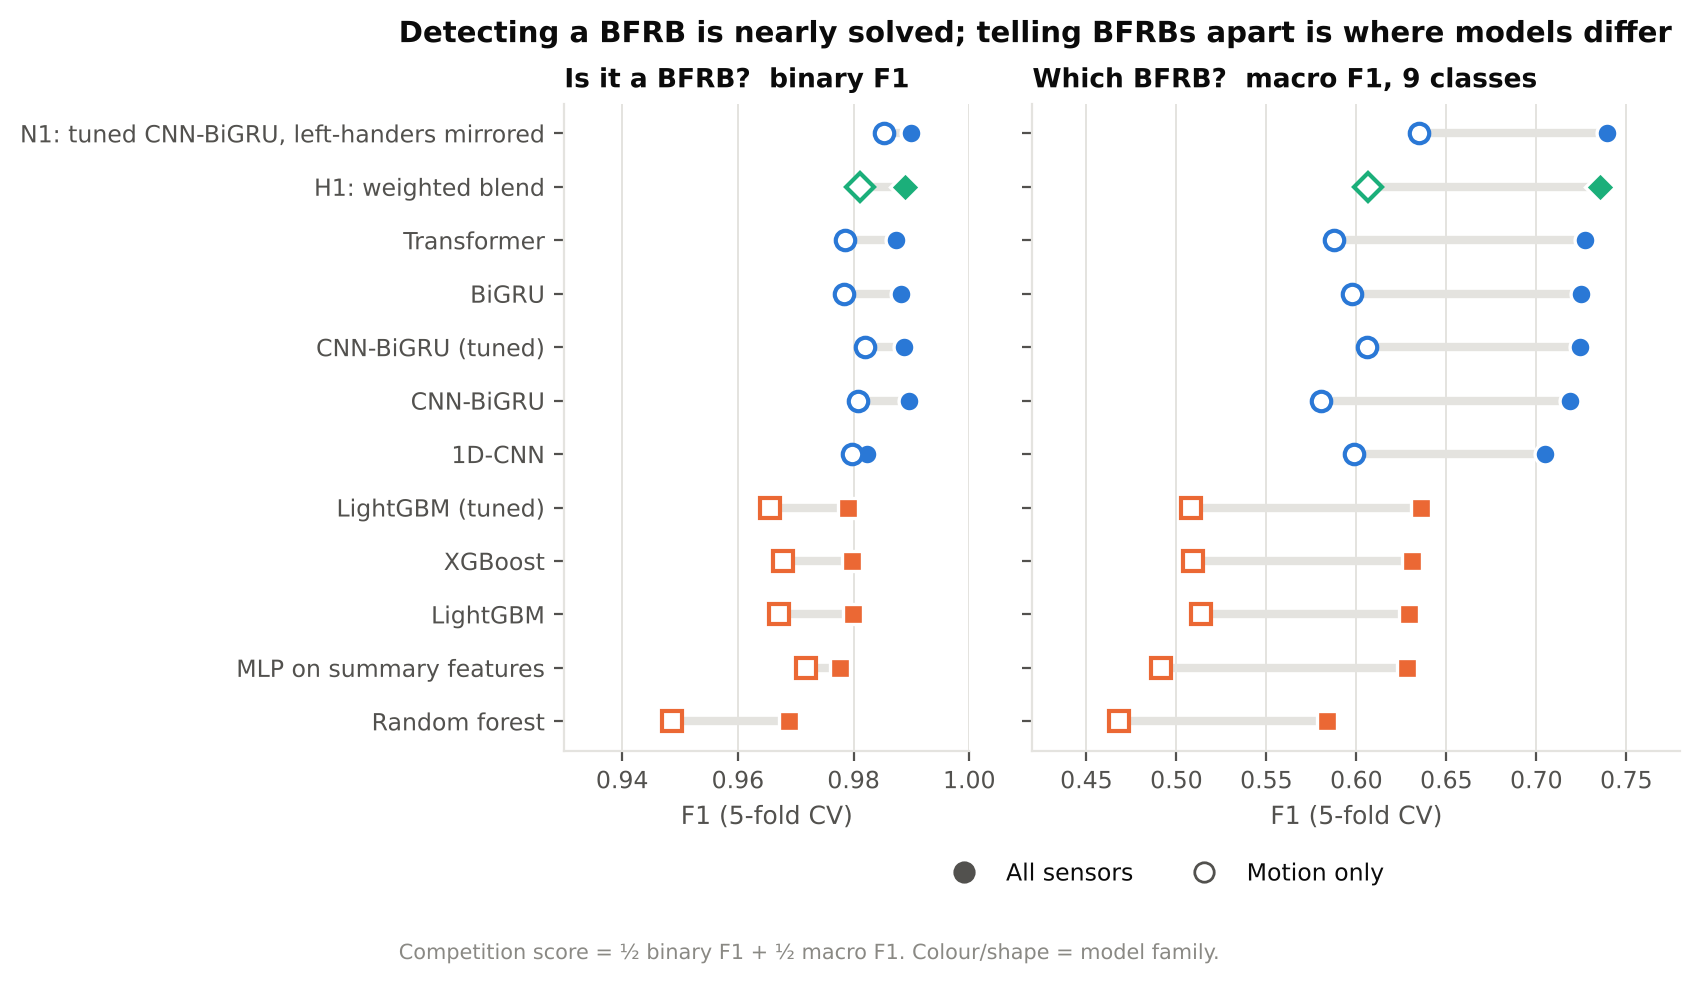
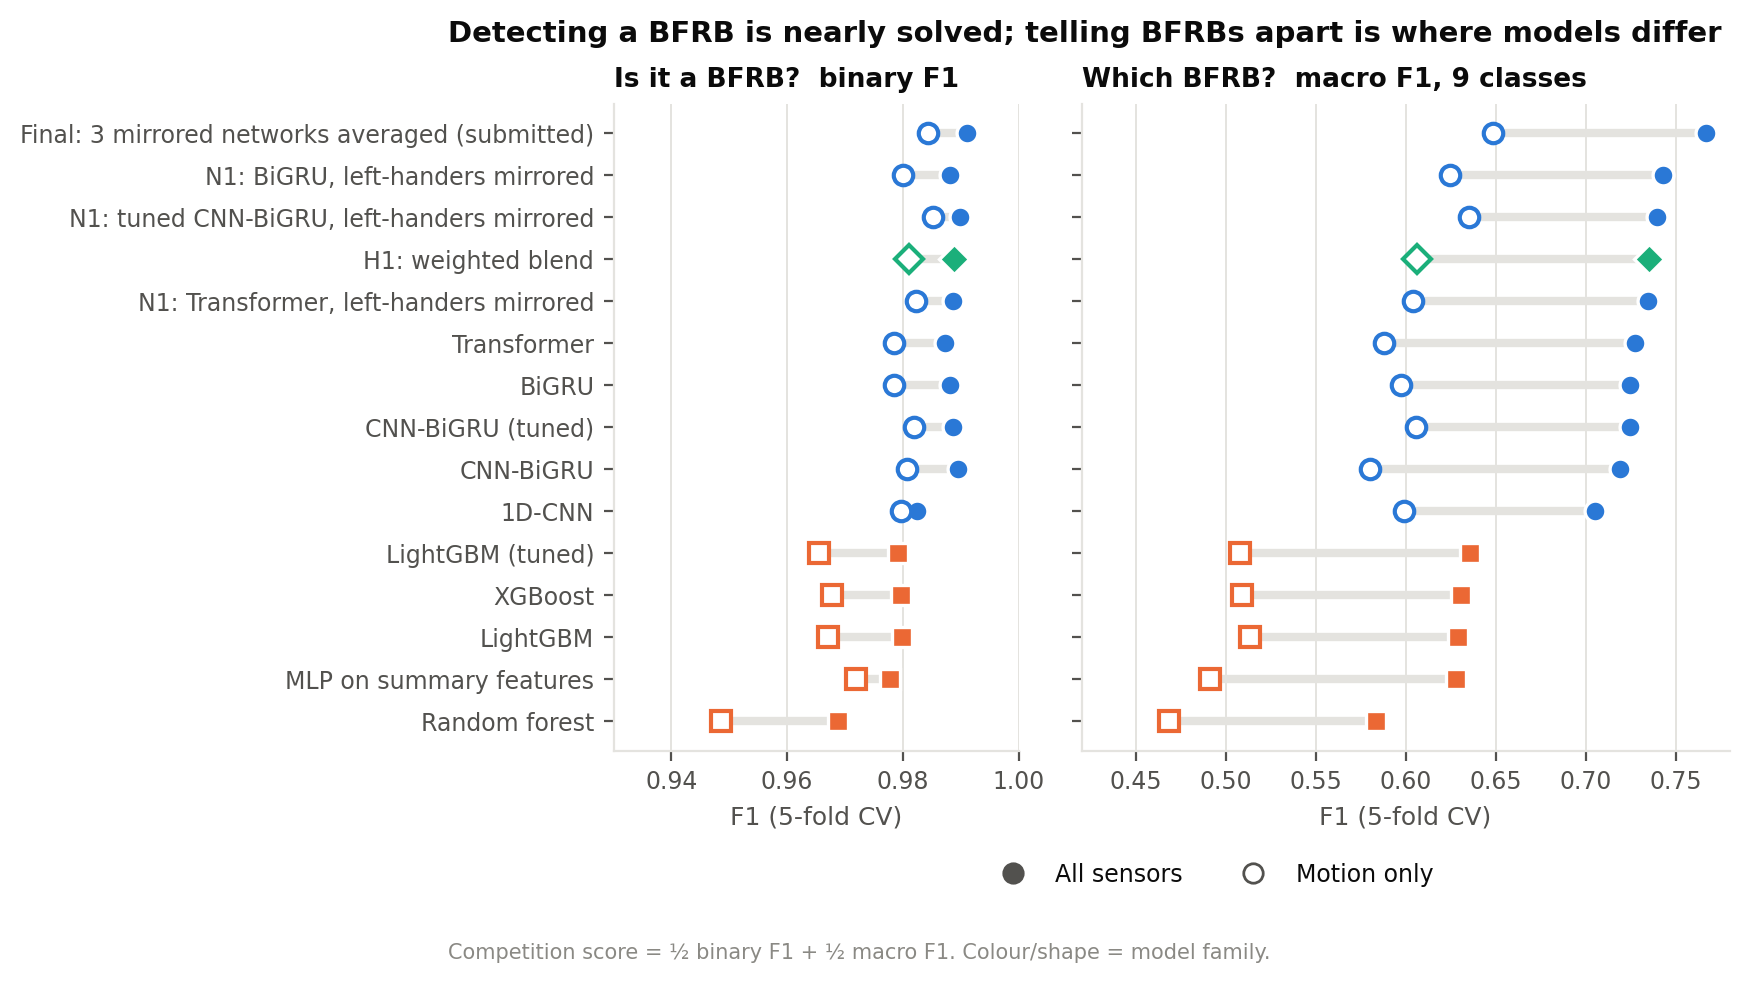
Pass 3 results: final ensemble 0.848 (+ balancing 0.853), N1 on every architecture
- Final = N1 CNN-BiGRU + N1 BiGRU + N1 Transformer averaged: 0.848 [0.834, 0.861], beats N1 (+0.010),
  H1 (+0.020) and the tuned CNN-BiGRU (+0.022), Holm-significant, 5/5 folds
- Per-person balancing: +0.005 (strength 4 chosen on other folds; 20/20 replays, 5/5 folds)
- Mirroring helps every architecture: +0.012 / +0.012 / +0.007, all 5/5 folds
- Verified: final recomputed from raw predictions; earlier runs byte-identical to Pass 2; retrained N1
  reproduces Pass 2 exactly; folds and tuned settings unchanged
- Exploratory ensembles replaced by the final ensemble; figures redrawn; READMEs updated

Claude-Session: https://claude.ai/code/session_01RbzUYDeEXcauXLyg6bzpi6

diff --git a/results/README.md b/results/README.md
@@ -1,7 +1,9 @@
 # Results: CMI – Detect Behavior with Sensor Data
 
 **Final results:** 5-fold cross-validation by person, 3 seeds per model, 8,151 recordings from 81 people.
-**Runs:** Kaggle, 2x Tesla T4, 24 Oct 2026. Pass 1 (seed 0) and Pass 2 (seeds 1-2, ablations, N1, XGBoost).
+**Runs:** Kaggle, 2x Tesla T4. Pass 1 (24 Oct, seed 0), Pass 2 (24 Oct: seeds 1-2, ablations, N1, XGBoost) and
+Pass 3 (27 Oct, 85 min: mirrored BiGRU and Transformer, the final ensemble and balancing, every submitted model saved).
+Pass 3 left every earlier prediction byte-identical; retraining N1 to save its weights reproduced it exactly.
 
 **Verified on 25 Oct 2026:**
 - Every number here was recomputed from the raw out-of-fold predictions.
@@ -15,8 +17,10 @@ mirrors the hidden test set, where about half the recordings have motion (IMU) s
 
 | Model | All sensors | Motion only | **Combined [95% CI]** |
 | --- | --- | --- | --- |
-| **N1: tuned CNN-BiGRU, left-handed wearers mirrored** | **0.865** | **0.810** | **0.838** [0.824, 0.850] |
-| H1: blend of tuned CNN-BiGRU + tuned LightGBM (deployed) | 0.862 | 0.794 | 0.828 [0.814, 0.841] |
+| **Final (submitted): N1 CNN-BiGRU + N1 BiGRU + N1 Transformer, averaged** | **0.879** | **0.816** | **0.848** [0.834, 0.861] |
+| ... + per-person balancing (replayed test server, half motion-only) | | | 0.853 (vs 0.848 off) |
+| N1: tuned CNN-BiGRU, left-handed wearers mirrored | 0.865 | 0.810 | 0.838 [0.824, 0.850] |
+| H1: blend of tuned CNN-BiGRU + tuned LightGBM (first submission: public 0.844, private 0.823) | 0.862 | 0.794 | 0.828 [0.814, 0.841] |
 | Tuned CNN-BiGRU | 0.857 | 0.794 | 0.825 [0.812, 0.838] |
 | Best summary-feature model (LightGBM) | 0.805 | 0.741 | 0.773 [0.760, 0.785] |
 
@@ -70,7 +74,7 @@ folds 1-4: 12 trials for the network, 20 for LightGBM.
 | File | Content |
 | --- | --- |
 | `table_ablations.csv`, `compare_ablations.csv` | The default CNN-BiGRU without augmentation, without the phase loss (N2), and without the ToF 3x3 region features |
-| `table_n1.csv`, `compare_n1.csv` | N1: each architecture trained on left-hand-mirrored data vs the same model unmirrored (the BiGRU and Transformer pairs appear after Pass 3) |
+| `table_n1.csv`, `compare_n1.csv` | N1: each architecture trained on left-hand-mirrored data vs the same model unmirrored |
 | `compare_routing.csv` | N3: dedicated motion-only model vs the all-sensor model with its sensors switched off |
 
 Figures:
@@ -82,7 +86,7 @@ Figures:
 
 | Component | Effect | Verdict |
 | --- | --- | --- |
-| N1: mirroring left-handed wearers | **+0.012** (5/5 folds); left-hander gap 0.081 → 0.019 | Largest single gain |
+| N1: mirroring left-handed wearers | **+0.012** CNN-BiGRU, +0.012 BiGRU, +0.007 Transformer (all 5/5 folds); left-hander gap 0.081 → 0.019 | Largest single gain, on every architecture |
 | Augmentation | +0.011 | Significant |
 | N3: dedicated motion-only model | +0.006 | Significant |
 | ToF 3x3 region features | +0.004 | Significant |
@@ -95,18 +99,19 @@ Figures:
 | `table_hybrids.csv`, `compare_hybrids.csv` | H1 weighted blend, H2 logistic stacker, H3 LightGBM on network outputs; all fitted on out-of-fold predictions only |
 | `blend_weights.json` | H1 weights: 0.60 (all sensors) / 0.80 (motion only) on the network |
 | `deploy.json` | What the submission runs (networks, tree model, weights, balancing strength, per-person quota) |
-| `*_ensembles_exploratory.csv` | Equal-weight ensembles (exploratory: chosen after seeing CV). Pass 3 replaces them with the pre-specified final ensemble |
-| `table_final.csv`, `compare_final.csv` | After Pass 3: the final ensemble vs its three members, H1 and the tuned CNN-BiGRU |
-| `table_balancing.csv` | After Pass 3: per-person balancing off vs on (strength chosen on other folds, 20 replays of the test server) |
+| `table_final.csv`, `compare_final.csv` | The final ensemble vs its three members, H1 and the tuned CNN-BiGRU |
+| `table_balancing.csv` | Per-person balancing off vs on (strength chosen on other folds, 20 replays of the test server) |
 
 Figures:
 - `hybrids`
-- `ensembles_exploratory`
+- `final_model`: the final ensemble vs its members, and balancing off vs on
 
 **Findings:**
 - H1 adds +0.003 (significant), all of it with all sensors.
-- Mixing architectures (N1 + BiGRU + Transformer = 0.845) adds more than mixing views.
-- Checked on these predictions before choosing the final model (all fitted on other folds):
+- **Final ensemble: 0.848**, +0.010 over N1 alone, +0.020 over H1, +0.022 over the tuned CNN-BiGRU (all Holm-significant, 5/5 folds).
+  Mixing architectures adds far more than mixing views (H1).
+- **Balancing: +0.005** (0.848 → 0.853), strength 4 chosen on other folds in every fold, better in 20/20 replays and 5/5 folds.
+- Checked on the Pass 2 predictions before choosing the final model (all fitted on other folds):
   - LightGBM on top of the 3-network average: 0.845 → 0.844, so the final model drops it.
   - Summing the 18 gesture probabilities into the 9 scored classes before the argmax: -0.005 (not used).
   - Per-class decision weights: +0.001 (not worth the extra fitting).
@@ -144,8 +149,8 @@ Regenerate every figure with `python -m models.report_figures` (it reads only th
 ## Caveats to state in the report
 
 - **N1's mirror transform** was chosen by the team after inspecting all subjects' labels, though it is the physically expected mirror image. The comparison is otherwise clean: same folds, model and settings, with mirroring the only difference.
-- **The exploratory ensembles** were chosen after seeing CV. The final ensemble (Pass 3) was then fixed in advance as
-  the three architectures that each have a mirrored version; its own score is still informed by that exploration.
+- **The final ensemble's membership** was chosen after exploratory ensembles on Pass 2 predictions, then fixed before
+  Pass 3 trained it. Its score is therefore mildly optimistic; the leaderboard is the independent check.
 - **Balancing** relies on every test participant following the training protocol (8 of each BFRB per person).
   It uses only the person's earlier predictions, never labels.
 - **All of this is cross-validation.** The leaderboard score comes from the Kaggle submission.

diff --git a/README.md b/README.md
@@ -12,7 +12,8 @@ only. The score is ½ binary F1 (BFRB or not) + ½ macro F1 (which BFRB).
 
 | Model | Combined score [95% CI] |
 | --- | --- |
-| **N1: tuned CNN-BiGRU with left-handed wearers mirrored** | **0.838** [0.824, 0.850] |
+| **Final (submitted): 3 mirrored networks averaged, + per-person balancing** | **0.848** [0.834, 0.861]; balancing +0.005 → 0.853 (replayed test server) |
+| N1: tuned CNN-BiGRU with left-handed wearers mirrored | 0.838 [0.824, 0.850] |
 | H1: tuned CNN-BiGRU + LightGBM blend (first submission: public LB 0.844, private 0.823) | 0.828 [0.814, 0.841] |
 | Tuned CNN-BiGRU | 0.825 [0.812, 0.838] |
 | LightGBM on 795 summary features | 0.773 [0.760, 0.785] |
@@ -20,11 +21,12 @@ only. The score is ½ binary F1 (BFRB or not) + ½ macro F1 (which BFRB).
 The full tables, statistics and figures are in **[results/](results/README.md)**, in one folder per question:
 model comparison, hyper-parameter tuning, ablations, hybrids and ensembles, error analysis, and validation.
 
-**Final model (trained by `run_all --final`, see [TRAINING.md](TRAINING.md#pass-3-the-final-model)):** the tuned
+**Final model (Pass 3, `run_all --final`, see [TRAINING.md](TRAINING.md#pass-3-the-final-model)):** the tuned
 CNN-BiGRU, the BiGRU and the Transformer, each trained on left-hand-mirrored data (N1), averaged with equal weights,
-plus per-person balancing at test time. LightGBM is dropped: on the Pass 2 predictions it no longer helps once the
-networks are averaged (0.845 → 0.844). Estimated from the Pass 2 predictions (only one of the three networks was
-mirrored there): ensemble 0.845, balancing +0.006 (20/20 replays, 5/5 folds).
+plus per-person balancing at test time. It beats every model, including N1 alone (+0.010) and the first submission H1
+(+0.020), in 5/5 folds. Mirroring helps all three architectures (+0.012, +0.012, +0.007; Holm-significant, 5/5 folds).
+Balancing adds +0.005 (strength chosen on other folds; better in 20/20 replays and 5/5 folds). LightGBM is dropped:
+it no longer helps once the networks are averaged.
 
 ## Repository
 
